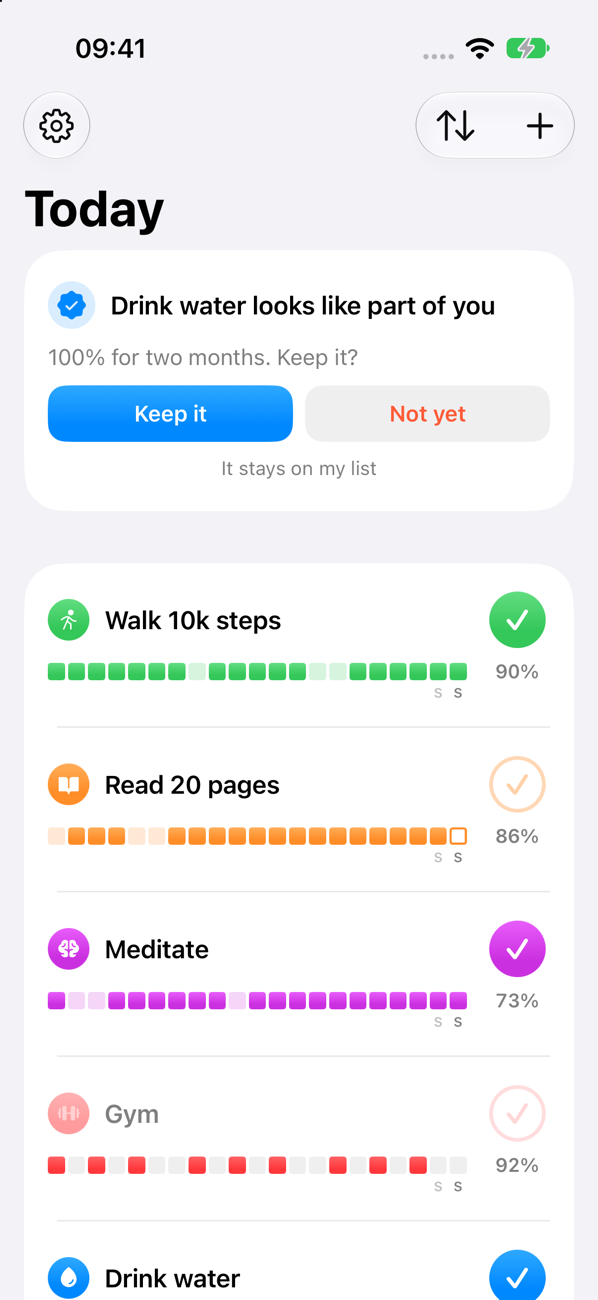
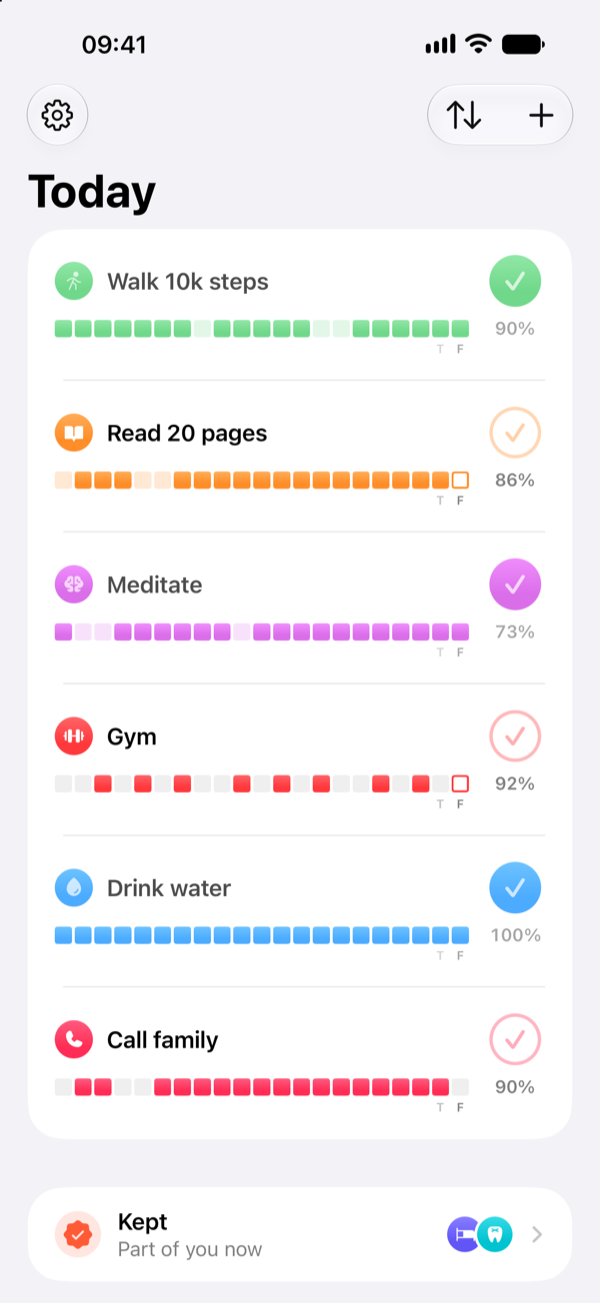
Refresh Kept's page for 1.0, leading with local-first
Copy from the 1.0 App Store listing: a "Local-first · No account" pill,
"Your habits, on your devices.", and six features (no account and sealed
sync, fair streaks, keep it, history, reminders, widgets). No ads, no
tracking. The meta description leads with local-first too.

New screenshots from the App Store captures: four iPhone screens (today,
skip, keep it, a habit's detail) and the iPad split view, with its status
bar cropped off. moment.png and shelf.png are gone.

diff --git a/src/app/kept/page.tsx b/src/app/kept/page.tsx
@@ -3,27 +3,36 @@ import Link from "next/link";
 
 const features = [
   {
-    title: "When it's part of you, keep it",
-    text: "A habit that has stuck goes on your Kept shelf, with its history, and stops asking. Kept suggests it once a habit has clearly stuck, and never for things like medication.",
-  },
-  {
-    title: "No account",
-    text: "Your habits stay on your own devices. Pair a second one with a QR code, an iPhone with an Android phone too, and they sync, sealed so nothing in between can read them.",
+    title: "No account. Just your devices.",
+    text: "Your habits live on your own devices, not in an account, and Kept works offline. Pair another iPhone, iPad or Android phone with a QR code and they keep each other up to date, sealed end to end: directly when they're nearby, or through a relay that can't read them. No ads, no tracking.",
   },
   {
     title: "Streaks that are fair",
-    text: "Skip a day when you're ill or travelling, pause a habit for a season, or mark a day failed. Days can end at 4am, so a late night still counts for its evening.",
+    text: "Ill, travelling, or just a hard week? Skip the day and your streak stays safe. Pause a habit for a season, or mark a day failed. Let your day end at 4am, so a late night still counts for the evening it belongs to.",
+  },
+  {
+    title: "When it sticks, keep it",
+    text: "Once a habit has clearly become part of you, Kept suggests moving it to your Kept shelf, with its whole history. It stops asking, and your list stays short.",
+  },
+  {
+    title: "See how it's going",
+    text: "Every habit has its current and best streak, the last 30 days, a calendar, and six months at a glance. On iPad, see four weeks of every habit on one screen.",
+  },
+  {
+    title: "Reminders at your usual time",
+    text: "Pick a time, or let Kept learn when you usually do it, day by day. It only reminds you on days a habit is due and not done yet.",
   },
   {
     title: "Widgets everywhere",
-    text: "Check things off from the home screen and the lock screen, Control Center on iPhone, and a Quick Settings tile on Android.",
+    text: "Check things off from the home screen and the lock screen, see what's up next, or keep a habit's month in view. There's a Control Center control on iPhone and a Quick Settings tile on Android.",
   },
 ];
 
 const screens = [
-  { src: "/kept/today.png", alt: "Today, with a habit that looks like part of you" },
-  { src: "/kept/moment.png", alt: "A habit kept, with its stamp" },
-  { src: "/kept/shelf.png", alt: "The Kept shelf" },
+  { src: "/kept/today.png", alt: "Today, with a strip of recent days for each habit" },
+  { src: "/kept/skip.png", alt: "A habit's menu, with Skip today, Failed and Pause" },
+  { src: "/kept/keep-it.png", alt: "Kept suggesting to keep a habit that looks like part of you" },
+  { src: "/kept/detail.png", alt: "A habit's streaks, last 30 days and calendar" },
 ];
 
 export default function KeptPage() {
@@ -39,16 +48,17 @@ export default function KeptPage() {
           priority
         />
 
-        <p className="mb-3 text-sm font-semibold uppercase tracking-[0.25em] text-[#ff5a36]">
-          Quad.codes app
+        <p className="mb-4 inline-block rounded-[999px] bg-[#ff5a36]/10 px-3 py-1 text-xs font-semibold uppercase tracking-[0.2em] text-[#e8492a]">
+          Local-first · No account
         </p>
         <h1 className="text-5xl font-bold leading-tight tracking-[-0.04em] sm:text-7xl">Kept</h1>
         <p className="mt-2 text-2xl font-semibold tracking-[-0.02em] text-[#6b5e55] sm:text-3xl">
-          Habits you keep.
+          Your habits, on your devices.
         </p>
         <p className="mt-6 max-w-2xl text-xl leading-8 text-[#4a3f38]">
-          A habit tracker for iPhone, iPad and Android. Check things off, keep your streaks going, and
-          when a habit has become part of you, keep it.
+          Kept is a local-first habit tracker for iPhone, iPad and Android. Your habits live on your
+          own devices, not in an account, and sync between them is sealed end to end. Check things
+          off, keep your streaks going, and when a habit has become part of you, keep it.
         </p>
 
         <div className="mt-10 flex flex-wrap gap-3 text-sm font-medium">
@@ -66,18 +76,25 @@ export default function KeptPage() {
           </Link>
         </div>
 
-        <div className="mt-16 grid grid-cols-3 gap-4 sm:gap-8">
+        <div className="mt-16 grid grid-cols-2 gap-4 sm:grid-cols-4 sm:gap-6">
           {screens.map((screen) => (
             <Image
               key={screen.src}
               src={screen.src}
               alt={screen.alt}
-              width={598}
-              height={1300}
-              className="h-auto w-full rounded-[1.5rem] shadow-lg ring-1 ring-[rgba(0,0,0,0.06)] sm:rounded-[2.25rem]"
+              width={600}
+              height={1303}
+              className="h-auto w-full rounded-[1.25rem] shadow-lg ring-1 ring-[rgba(0,0,0,0.06)] sm:rounded-[1.75rem]"
             />
           ))}
         </div>
+        <Image
+          src="/kept/ipad.png"
+          alt="Kept on iPad: Today next to a habit's streaks and calendar"
+          width={1200}
+          height={832}
+          className="mt-4 h-auto w-full rounded-lg shadow-lg ring-1 ring-[rgba(0,0,0,0.06)] sm:mt-6 sm:rounded-xl"
+        />
 
         <div className="mt-16 grid gap-8 sm:grid-cols-2">
           {features.map((feature) => (

diff --git a/src/app/kept/layout.tsx b/src/app/kept/layout.tsx
@@ -3,7 +3,7 @@ import type { Metadata } from "next";
 export const metadata: Metadata = {
   title: "Kept: Habits you keep",
   description:
-    "A habit tracker for iPhone, iPad and Android, with no account. When a habit has become part of you, keep it.",
+    "Kept is a local-first habit tracker for iPhone, iPad and Android. No account: your habits stay on your own devices, and sync between them is sealed end to end. No ads, no tracking.",
 };
 
 export default function KeptLayout({
